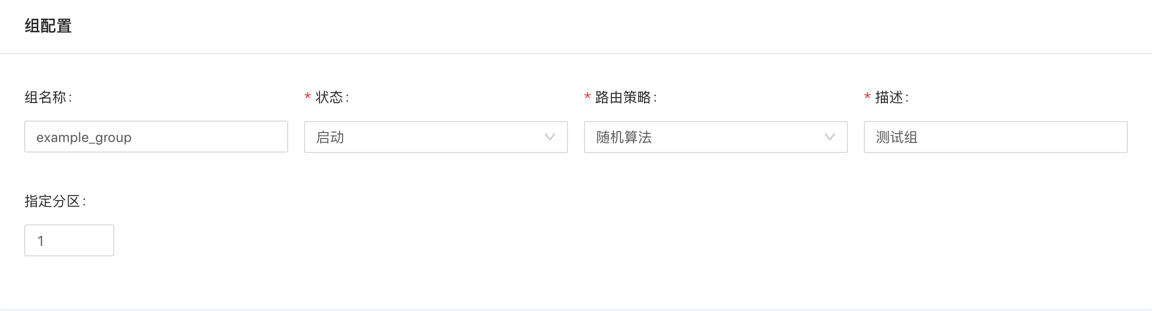
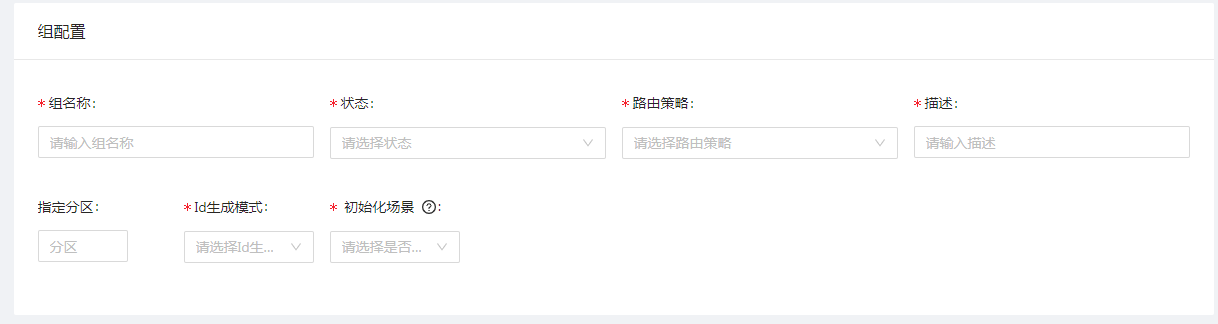
feat: 1.4.0 更新组配置

diff --git a/docs/01.指南/01.指南/02.快速上手.md b/docs/01.指南/01.指南/02.快速上手.md
@@ -63,7 +63,6 @@ public String errorMethodForLocalAndRemote(String name) {
 | timeout |long|否|60 * 1000| 同步(async:false)上报数据需要配置超时时间|
 | unit |TimeUnit|否|TimeUnit.MILLISECONDS| 超时时间单位|
 | forceReport |boolean|否|false| 是否强制上报数据到服务端|
-| initScene |boolean|否|false| 是否初始化服务端场景配置|
 
 ## 自定义生成重试任务
 ::: warning
@@ -85,7 +84,6 @@ public String errorMethodForLocalAndRemote(String name) {
 | timeout |long|否|60 * 1000| 同步(async:false)上报数据需要配置超时时间|
 | unit |TimeUnit|否|TimeUnit.MILLISECONDS| 超时时间单位|
 | forceReport |boolean|否|false| 是否强制上报数据到服务端 |
-| initScene |boolean|否|false| 是否初始化服务端场景配置|
 
 ### 新建一个自定义任务执行器
 ```java

diff --git a/docs/01.指南/01.指南/04.更新日志.md b/docs/01.指南/01.指南/04.更新日志.md
@@ -4,8 +4,13 @@ date: 2023-05-31 23:19:06
 permalink: /pages/bbdaf6/
 ---
 
-## v1.4.0(准备中....)
-- 敬请期待...
+## v1.4.0(2023-06-01)
+- 新增飞书告警【新增】
+- 优化场景和通知的列表支持横向滑动【新增】
+- 限制固定间隔和随机间隔两个退避策略的间隔时间不能小于10秒【优化】
+- 支持上报数据无场景时,自动初始化场景【新增】
+- 优化RetryAspect不开启重试时日志模糊问题【优化】
+- 优化Easy-Retry版本版本获取方式【优化】
 
 ## v1.3.0(2023-05-18)
 

diff --git a/docs/01.指南/02.核心功能/02.核心功能配置.md b/docs/01.指南/02.核心功能/02.核心功能配置.md
@@ -17,6 +17,8 @@ article: false
 - 路由策略: 随机算法、一致性hash算法、最近最久未使用算法
 - 描述: 对组进行描述
 - 指定分区: 不指定则系统随机分区，指定则使用指定的分区
+- Id生成模式: 支持雪花算法和号段模式
+- 初始化场景: 【是】: 当未查询到场景时默认生成一个场景(退避策略: 等级策略, 最大重试次数: 26); 【否】: 新增场景时必须先配置场景
 
 ![goup_config.png](../../.vuepress/public/img/goup_config.png)
 
